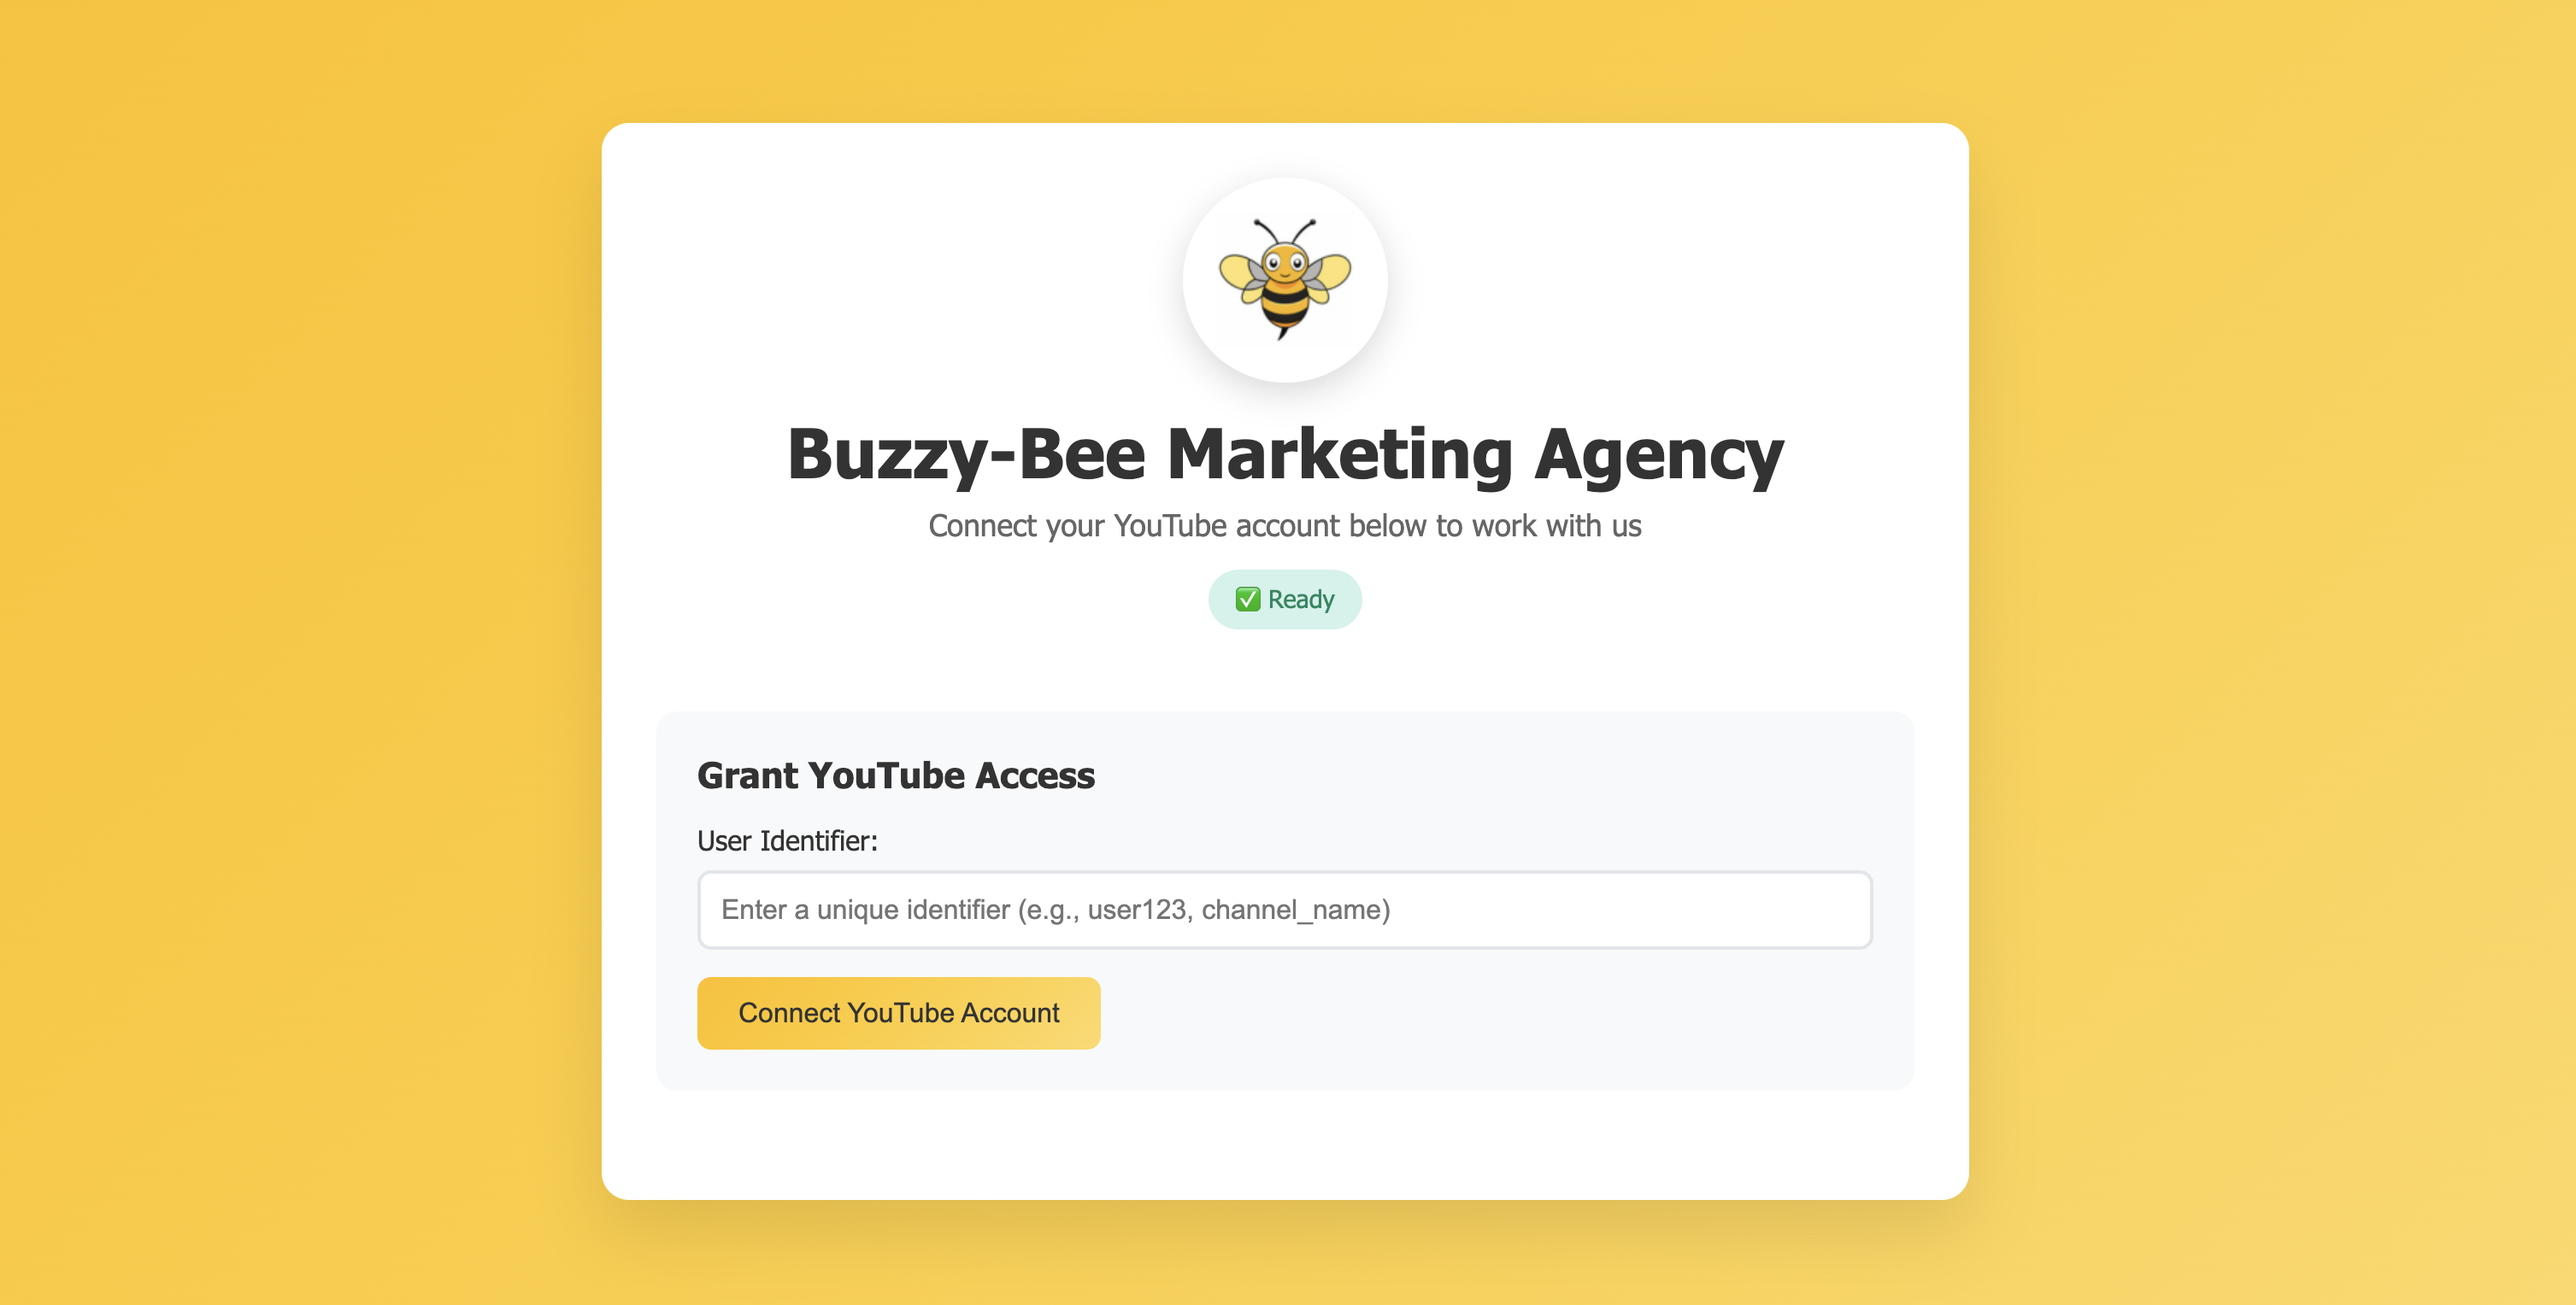
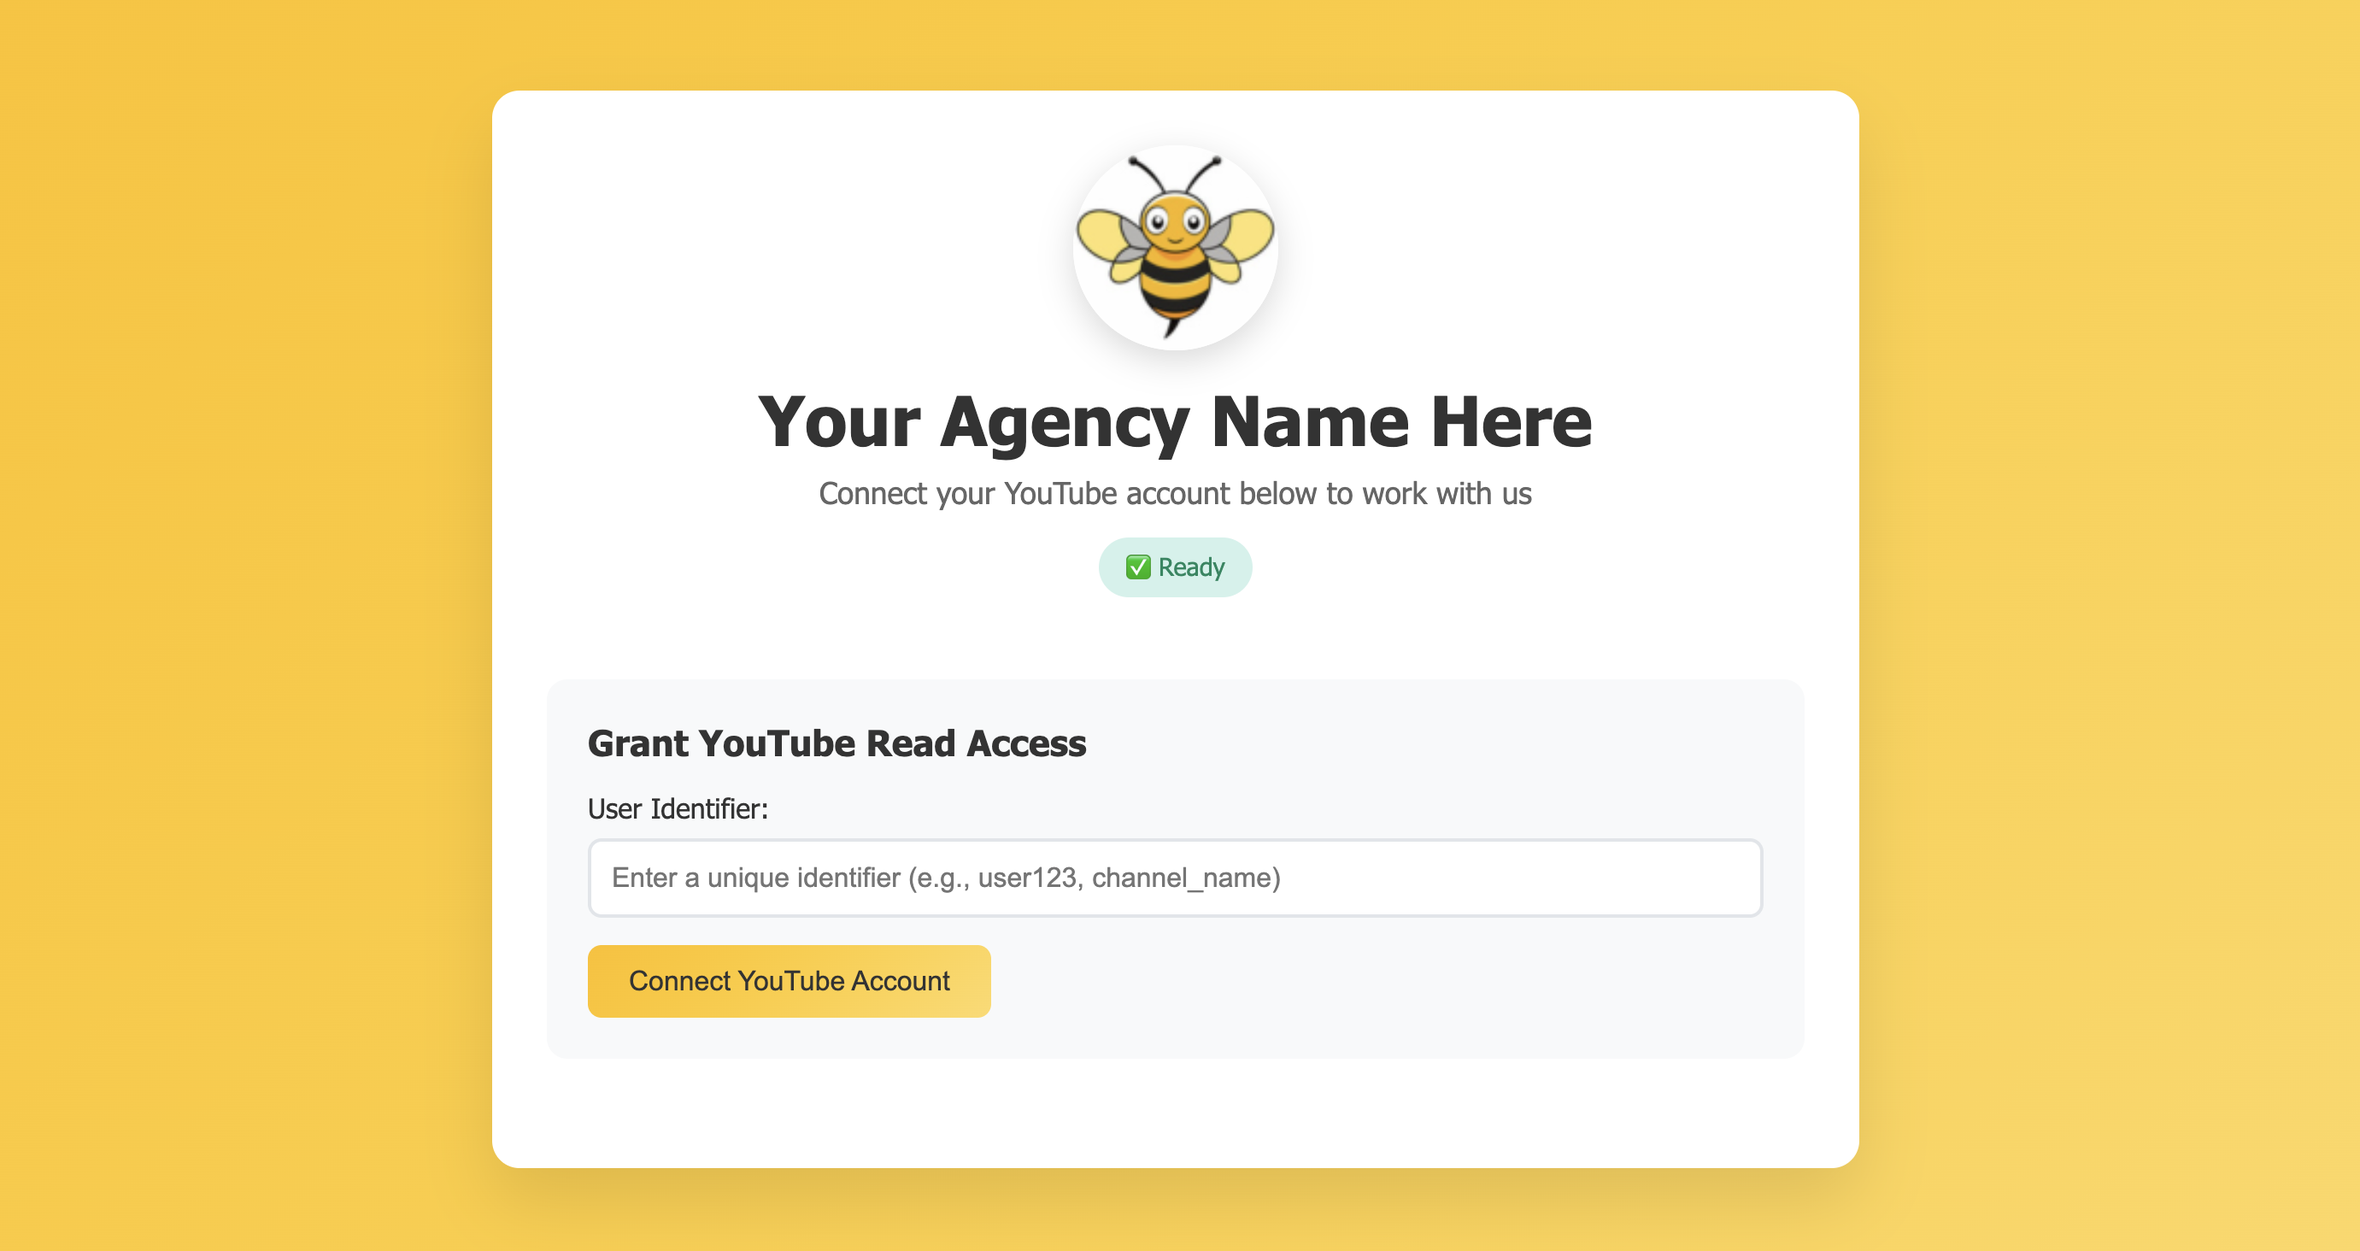
update readme and page style

Changed region(s): [[0.1868, 0.0615, 0.8096, 0.9529], [0.2802, 0.3074, 0.7161, 0.4918], [0.4359, 0.123, 0.5605, 0.2766]]

diff --git a/frontend/index.html b/frontend/index.html
@@ -181,8 +181,8 @@
 <body>
     <div class="container">
         <div class="header">
-            <div style="width: 120px; height: 120px; margin: 0 auto 1rem; border-radius: 50%; box-shadow: 0 6px 20px rgba(0,0,0,0.15); background: white; display: flex; align-items: center; justify-content: center; padding: 20px; box-sizing: border-box;">
-                <img id="appLogo" src="/logo.svg" alt="Logo" style="max-width: 100%; max-height: 100%; object-fit: contain;">
+            <div style="width: 120px; height: 120px; margin: 0 auto 1rem; border-radius: 50%; box-shadow: 0 6px 20px rgba(0,0,0,0.15); background: white; display: flex; align-items: center; justify-content: center; box-sizing: border-box;">
+                <img id="appLogo" src="/logo.svg" alt="Logo" style="width: 100%; height: 100%; object-fit: cover; border-radius: 50%;">
             </div>
             <h1 id="appTitle">🎥 YouTube OAuth Manager</h1>
             <p>Connect your YouTube account below to work with us</p>
@@ -192,7 +192,7 @@
         <div id="messageContainer"></div>
 
         <div class="auth-section">
-            <h2>Grant YouTube Access</h2>
+            <h2>Grant YouTube Read Access</h2>
             <div class="form-group">
                 <label for="userId">User Identifier:</label>
                 <input type="text" id="userId" placeholder="Enter a unique identifier (e.g., user123, channel_name)" />

diff --git a/README.md b/README.md
@@ -2,7 +2,7 @@
 
 **An open-source template for content creator agencies to collect YouTube OAuth tokens for Bitcast Network mining (Subnet 93 on Bittensor).**
 
-This is a **template application** designed for agencies participating in decentralized mining on the Bitcast Network. The template provides a clean, branded interface for content creators to authorize access to their YouTube accounts.
+This is a **template application** designed for agencies participating in decentralized mining on the [Bitcast Network](https://github.com/bitcast-network/bitcast). The template provides a clean, branded interface for content creators to authorize access to their YouTube accounts. Agencies will earn rewards on behalf of the creators.
 
 ![YouTube OAuth Manager Interface](sample.png)
 
